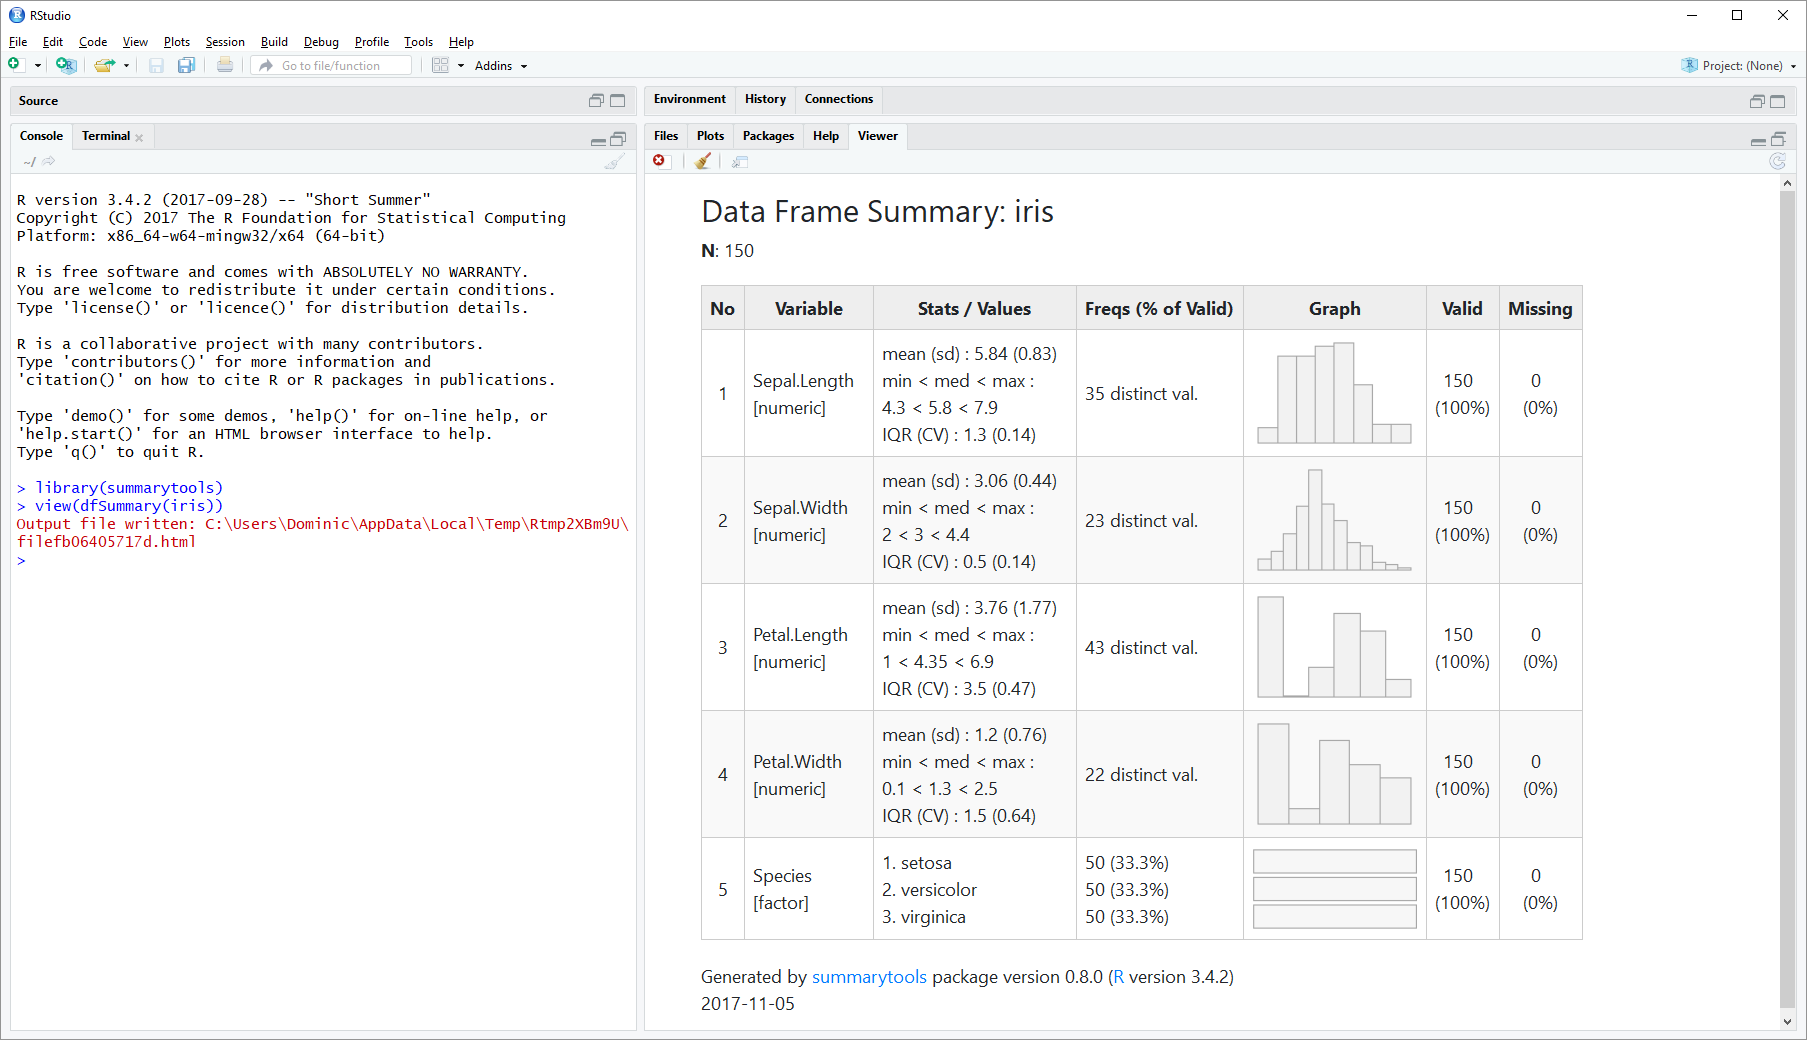
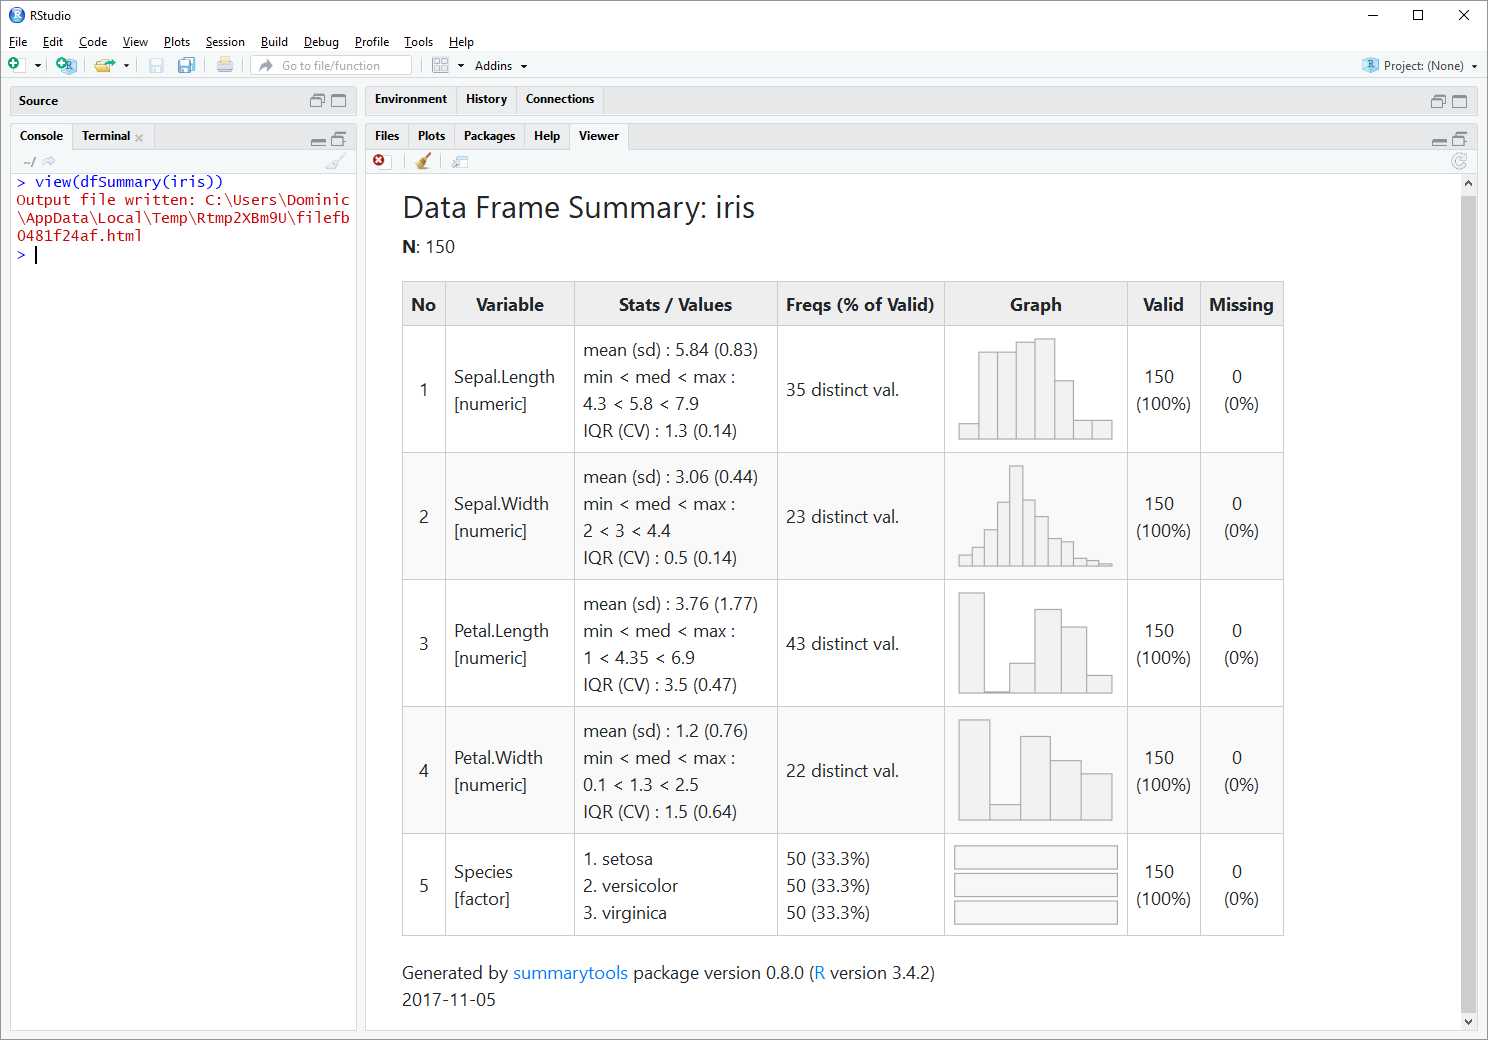
updated readme (WIP)

diff --git a/README.md b/README.md
@@ -3,14 +3,8 @@ CRAN stats: [![](http://cranlogs.r-pkg.org/badges/summarytools)](http://cran.rst
 Other stats: [![Research software impact](http://depsy.org/api/person/338759/badge.svg)](http://depsy.org/person/338759)
 
 ## Latest News
-I've been working on `summarytools` on and off over the last few months. Now I'm happy to introduce version 0.8.0, here on GitHub at first, and then push it to R-Cran. 
 
-The most notable changes are:
-  - A cross-tabulation function, `ctable()` 
-  - Improved support for `by()`, `with()` and `lapply()` functions 
-  - `dfSummary()` now optionnaly shows barplots and histograms 
-  - New layouts, most noticeable in html reports 
-  - Added flexibility on many fronts 
+For the latest news, please see [this section](#Latest-News)
 
 ## What is summarytools?
 
@@ -77,7 +71,7 @@ install_github('dcomtois/summarytools', ref='dev-current')
 
 You can also see the source code and documentation on the official R site [here](http://cran.r-project.org/web/packages/summarytools/).
 
-# Demo of the 4 main functions with plain-ascii output
+# The 4 main functions
 
 ## Frequency tables with freq()
 
@@ -85,27 +79,20 @@ The `freq()` function generates a table of frequencies with counts and proportio
 
 ```r
 library(summarytools)
-data(iris)
-# We'll insert some NA's for illustration purposes
-is.na(iris) <- matrix(sample(x = c(TRUE,FALSE), size = 150*5, 
-                             replace = T, prob = c(.1,.9)),nrow = 150)
-# ... and add a variable label for the Species column
-label(iris$Species) <- "The Species (duh)"
 freq(iris$Species)
 ```
 
 ```
 Frequencies 
 iris$Species 
-Variable Label: The Species (duh) 
 Type: Factor (unordered) 
 
                    Freq   % Valid   % Valid Cum.   % Total   % Total Cum.
 ---------------- ------ --------- -------------- --------- --------------
-          setosa     45     32.85          32.85     30.00          30.00
-      versicolor     47     34.31          67.15     31.33          61.33
-       virginica     45     32.85         100.00     30.00          91.33
-            <NA>     13                               8.67         100.00
+          setosa     50     33.33          33.33     33.33          33.33
+      versicolor     50     33.33          66.67     33.33          66.67
+       virginica     50     33.33         100.00     33.33         100.00
+            <NA>      0                               0.00         100.00
            Total    150    100.00         100.00    100.00         100.00
 ```
 
@@ -114,36 +101,30 @@ The `descr()` function generates common central tendency statistics and measures
 
 #### descr() on the iris dataframe
 
+We'll use the _rmarkdown_ style for this example, to show that the default plain-ascii output is merely one of many output formats. More about this down below.
+
 ```r
-data(iris)
-descr(iris)
-Non-numerical variable(s) ignored: Species 
+descr(iris, style = "rmarkdown")
 ```
 
-```
-Non-numerical variable(s) ignored: Species
+## Descriptive Statistics: iris 
+**N:** 150 
 
-Descriptive Statistics: iris 
-N: 150 
-
-                    Sepal.Length   Sepal.Width   Petal.Length   Petal.Width
------------------ -------------- ------------- -------------- -------------
-             Mean           5.88          3.05           3.80          1.17
-          Std.Dev           0.83          0.44           1.76          0.76
-              Min           4.40          2.00           1.00          0.10
-           Median           5.80          3.00           4.40          1.30
-              Max           7.90          4.40           6.90          2.50
-              MAD           1.04          0.37           1.78          1.04
-              IQR           1.35          0.50           3.50          1.50
-               CV           7.04          6.96           2.16          1.55
-         Skewness           0.30          0.34          -0.29         -0.06
-      SE.Skewness           0.21          0.21           0.21          0.21
-         Kurtosis          -0.64          0.26          -1.39         -1.37
-          N.Valid         135.00        134.00         136.00        130.00
-        Pct.Valid          90.00         89.33          90.67         86.67
-```
-
-
+|          &nbsp; | Sepal.Length | Sepal.Width | Petal.Length | Petal.Width |
+|----------------:|-------------:|------------:|-------------:|------------:|
+|        **Mean** |         5.84 |        3.06 |         3.76 |        1.20 |
+|     **Std.Dev** |         0.83 |        0.44 |         1.77 |        0.76 |
+|         **Min** |         4.30 |        2.00 |         1.00 |        0.10 |
+|      **Median** |         5.80 |        3.00 |         4.35 |        1.30 |
+|         **Max** |         7.90 |        4.40 |         6.90 |        2.50 |
+|         **MAD** |         1.04 |        0.44 |         1.85 |        1.04 |
+|         **IQR** |         1.30 |        0.50 |         3.50 |        1.50 |
+|          **CV** |         7.06 |        7.01 |         2.13 |        1.57 |
+|    **Skewness** |         0.31 |        0.31 |        -0.27 |       -0.10 |
+| **SE.Skewness** |         0.20 |        0.20 |         0.20 |        0.20 |
+|    **Kurtosis** |        -0.61 |        0.14 |        -1.42 |       -1.36 |
+|     **N.Valid** |       150.00 |      150.00 |       150.00 |      150.00 |
+|   **Pct.Valid** |       100.00 |      100.00 |       100.00 |      100.00 |```
 
 ##### Transposing and selecting the stats you need 
 
@@ -153,17 +134,16 @@ If your eyes/brain prefer seeing things the other way around, just use "transpos
 descr(iris, stats = c("mean", "sd", "min", "med", "max"), transpose = TRUE)
 ```
 
-```
-Descriptive Statistics: iris 
-N: 150 
+## Descriptive Statistics: iris 
+**N:** 150 
 
-                     Mean   Std.Dev    Min   Median    Max
------------------- ------ --------- ------ -------- ------
-      Sepal.Length   5.88      0.83   4.40     5.80   7.90
-       Sepal.Width   3.05      0.44   2.00     3.00   4.40
-      Petal.Length   3.80      1.76   1.00     4.40   6.90
-       Petal.Width   1.17      0.76   0.10     1.30   2.50
-```
+|           &nbsp; | Mean | Std.Dev |  Min | Median |  Max |
+|-----------------:|-----:|--------:|-----:|-------:|-----:|
+| **Sepal.Length** | 5.84 |    0.83 | 4.30 |   5.80 | 7.90 |
+|  **Sepal.Width** | 3.06 |    0.44 | 2.00 |   3.00 | 4.40 |
+| **Petal.Length** | 3.76 |    1.77 | 1.00 |   4.35 | 6.90 |
+|  **Petal.Width** | 1.20 |    0.76 | 0.10 |   1.30 | 2.50 |
+
 
 ## Cross-tabulations with ctable()
 
@@ -189,7 +169,16 @@ Data Frame: tobacco
 -------- ---------- ------------- ------------- ---------------
 ```
 
-It is possible to display _column_, _total_, or no proportions at all. We can also omit the _Totals_, so at its simplest form, we would have:
+Note that _markdown_ still has no support for multi-line headers, unfortunately. But here is what the _html_ version looks like:
+
+```r
+view(with(tobacco, ctable(smoker, diseased)))
+```
+
+![html output for ctable](img/ctable-with-row-props.png)
+
+
+It is possible to display _column_, _total_, or no proportions at all. We can also omit the _Totals_, so at its simplest form, we'd have:
 
 ```r
 with(tobacco, ctable(smoker, diseased, prop = "n", totals = FALSE))
@@ -207,11 +196,9 @@ Data Frame: tobacco
 -------- ---------- ----- -----
 ```
 
-If the presentation is not too convincing at this stage, bare with me. We'll see down below that there are interesting alternatives to this plain-ascii console output.
+## Data Frame Summaries
 
-## Dataframe summaries
-
-The `dfSummary()` function gives information for all variables contained in a data frame. It 
+The `dfSummary()` function gives information for all variables contained in a data frame. The objective in building this function was to fit as much relevant information as possible in a concise, legible table. Version 0.8.0 introduced graphs for both ascii and _html_ outputs.
 
 ```r
 dfSummary(tobacco)
@@ -278,39 +265,111 @@ No   Variable         Stats / Values               Freqs (% of Valid)     Text G
 -------------------------------------------------------------------------------------------------------------------------
 ```
 
-# Formatting options
 
-So far we've only shown the default, plain-ascii console output. 
+TEST- plain.ascii = FALSE
+### Data Frame Summary: tobacco 
+**N:** 1000 
+---------------------------------------------------------------------------------------------------------------------------------------------
+No   Variable         Stats / Values                  Freqs (% of Valid)        Text Graph                                Valid     Missing  
+---- ---------------- ------------------------------- ------------------------- ----------------------------------------- --------- ---------
+1    gender           1. F   \                        489 (50.0%)   \           ¤¤¤¤¤¤¤¤¤¤¤¤¤¤¤¤                          978       22       
+     [factor]         2. M                            489 (50.0%)               ¤¤¤¤¤¤¤¤¤¤¤¤¤¤¤¤                          (97.8%)   (2.2%)   
 
-Thanks to Gergely Daróczi's [pander](https://github.com/Rapporter/pander) package, all functions can printout [markdown](http://daringfireball.net/projects/markdown/); just use the option `style="rmarkdown"`. That is useful for instance here on GitHub, where `.md` files are converted and displayed as _html_. Thanks to John MacFarlane's [Pandoc](http://johnmacfarlane.net/pandoc/), you can further convert markdown text files into a wide range of common formats such as _.pdf_, _.docx_ and _.odt_, among others. 
+2    age              mean (sd) : 49.6 (18.29)   \    63 distinct val.          . \ \ \ \ . \ \ \ \ \ \ \ \ . \ \ . :     975       25       
+     [numeric]        min < med < max :   \                                     : . . : : : \ \ : : . : :                 (97.5%)   (2.5%)   
+                      18 < 50 < 80   \                                          : : : : : : : : : : : :                                      
+                      IQR (CV) : 32 (0.37)                                      : : : : : : : : : : : :                                      
+                                                                                : : : : : : : : : : : :                                      
+                                                                                : : : : : : : : : : : :                                      
+
+3    age.gr           1. 18-34   \                    258 (26.5%)   \           ¤¤¤¤¤¤¤¤¤¤¤¤¤                             975       25       
+     [factor]         2. 35-50   \                    241 (24.7%)   \           ¤¤¤¤¤¤¤¤¤¤¤¤                              (97.5%)   (2.5%)   
+                      3. 51-70   \                    317 (32.5%)   \           ¤¤¤¤¤¤¤¤¤¤¤¤¤¤¤¤                                             
+                      4. 71 +                         159 (16.3%)               ¤¤¤¤¤¤¤¤                                                     
+
+4    BMI              mean (sd) : 25.73 (4.49)   \    974 distinct val.         \ \ \ \ \ \ \ \ \ \ \ \ :                 974       26       
+     [numeric]        min < med < max :   \                                     \ \ \ \ \ \ \ \ \ \ : : .                 (97.4%)   (2.6%)   
+                      8.83 < 25.62 < 39.44   \                                  \ \ \ \ \ \ \ \ \ \ : : :                                    
+                      IQR (CV) : 5.72 (0.17)                                    \ \ \ \ \ \ \ \ : : : : :                                    
+                                                                                \ \ \ \ \ \ \ \ : : : : : .                                  
+                                                                                \ \ \ \ . : : : : : : : .                                    
+
+5    smoker           1. Yes   \                      298 (29.8%)   \           ¤¤¤¤¤¤                                    1000      0        
+     [factor]         2. No                           702 (70.2%)               ¤¤¤¤¤¤¤¤¤¤¤¤¤¤¤¤                          (100%)    (0%)     
+
+6    cigs.per.day     mean (sd) : 6.78 (11.88)   \    37 distinct val.          :                                         965       35       
+     [numeric]        min < med < max :   \                                     :                                         (96.5%)   (3.5%)   
+                      0 < 0 < 40   \                                            :                                                            
+                      IQR (CV) : 11 (1.75)                                      :                                                            
+                                                                                :                                                            
+                                                                                : \ \ \ \ . \ \ \ \ \ \ \ \ . \ \ \ \ .                      
+
+7    diseased         1. Yes   \                      224 (22.4%)   \           ¤¤¤¤                                      1000      0        
+     [factor]         2. No                           776 (77.6%)               ¤¤¤¤¤¤¤¤¤¤¤¤¤¤¤¤                          (100%)    (0%)     
+
+8    disease          1. Hypertension   \             36 (16.2%)   \            ¤¤¤¤¤¤¤¤¤¤¤¤¤¤¤¤                          222       778      
+     [character]      2. Cancer   \                   34 (15.3%)   \            ¤¤¤¤¤¤¤¤¤¤¤¤¤¤¤                           (22.2%)   (77.8%)  
+                      3. Cholesterol   \              21 ( 9.5%)   \            ¤¤¤¤¤¤¤¤¤                                                    
+                      4. Heart   \                    20 ( 9.0%)   \            ¤¤¤¤¤¤¤¤                                                     
+                      5. Pulmonary   \                20 ( 9.0%)   \            ¤¤¤¤¤¤¤¤                                                     
+                      6. Musculoskeletal   \          19 ( 8.6%)   \            ¤¤¤¤¤¤¤¤                                                     
+                      7. Diabetes   \                 14 ( 6.3%)   \            ¤¤¤¤¤¤                                                       
+                      8. Hearing   \                  14 ( 6.3%)   \            ¤¤¤¤¤¤                                                       
+                      9. Digestive   \                12 ( 5.4%)   \            ¤¤¤¤¤                                                        
+                      10. Hypotension   \             11 ( 5.0%)   \            ¤¤¤¤                                                         
+                      [ 3 others ]                    21 ( 9.4%)                ¤¤¤¤¤¤¤¤¤                                                    
+
+9    samp.wgts        mean (sd) : 1 (0.08)   \        0.86*: 267 (26.7%)   \    ¤¤¤¤¤¤¤¤¤¤¤¤¤                             1000      0        
+     [numeric]        min < med < max :   \           1.04*: 249 (24.9%)   \    ¤¤¤¤¤¤¤¤¤¤¤¤                              (100%)    (0%)     
+                      0.86 < 1.04 < 1.06   \          1.05*: 324 (32.4%)   \    ¤¤¤¤¤¤¤¤¤¤¤¤¤¤¤¤                                             
+                      IQR (CV) : 0.19 (0.08)          1.06*: 160 (16.0%)   \    ¤¤¤¤¤¤¤                                                      
+                                                      * rounded                                                                              
+---------------------------------------------------------------------------------------------------------------------------------------------
+
+
+# Output & formatting options
+
+So far we've only shown the default, plain-ascii console output. We'll now see two alternatives to this default behavior: _Rmarkdown_ and _html_.
+
+## Rmarkdown
+
+_summarytools_ uses Gergely Daróczi's [pander](https://github.com/Rapporter/pander) package (an _R_ implementation of John MacFarlane's [Pandoc](http://johnmacfarlane.net/pandoc/)), to generate the ascii content. What this means is that the 4 main functions can printout [markdown](http://daringfireball.net/projects/markdown/) (_Rmarkdown_ to be precise) simply by setting the option `style="rmarkdown"`. 
 
 Here is an **example** of a markdown table, as processed by GitHub, using freq():
 
-
 ```r
-> freq(iris$Species, style="rmarkdown", plain.ascii=FALSE, missing="---")
+freq(iris$Species, style="rmarkdown")
 ```
-Dataframe name: iris  
- Variable name: Species  
-Variable label: The Species (duh)  
-          Date: 2014-12-05  
 
-Frequencies
+## Frequencies 
+### iris$Species 
+**Type:** Factor (unordered) 
 
-|           &nbsp; |   N |   %Valid |   %Cum.Valid |   %Total |   %Cum.Total |
-|-----------------:|----:|---------:|-------------:|---------:|-------------:|
-|       **setosa** |  46 |    33.58 |        33.58 |    30.67 |        30.67 |
-|   **versicolor** |  45 |    32.85 |        66.42 |       30 |        60.67 |
-|    **virginica** |  46 |    33.58 |          100 |    30.67 |        91.33 |
-|       **\<NA\>** |  13 |      --- |          --- |     8.67 |          100 |
-|        **Total** | 150 |      100 |          100 |      100 |          100 |
+|         &nbsp; | Freq | % Valid | % Valid Cum. | % Total | % Total Cum. |
+|---------------:|-----:|--------:|-------------:|--------:|-------------:|
+|     **setosa** |   50 |   33.33 |        33.33 |   33.33 |        33.33 |
+| **versicolor** |   50 |   33.33 |        66.67 |   33.33 |        66.67 |
+|  **virginica** |   50 |   33.33 |       100.00 |   33.33 |       100.00 |
+|     **\<NA\>** |    0 |         |              |    0.00 |       100.00 |
+|      **Total** |  150 |  100.00 |       100.00 |  100.00 |       100.00 |
 
-###### Two things to note here:
 
-  1. We specified `plain.ascii=FALSE`. This allows additional markup in the text (here, the bold-typed row names, added automatically by [pander](https://github.com/Rapporter/pander)).
-  2. We used the option `missing="---"`, to show that if we don't like seeing `NA`'s in our tables, it's quite easy to get rid of them or replace them with any character (or combination of characters).
+In the console, this would be shown as:
+```
+## Frequencies 
+### iris$Species 
+**Type:** Factor (unordered) 
 
-To **learn more about _markdown_ and _rmarkdown_** formats, see [John MacFarlane's page](http://johnmacfarlane.net/pandoc/) and this [RStudio's R Markdown Quicktour](http://rmarkdown.rstudio.com/).
+|         &nbsp; | Freq | % Valid | % Valid Cum. | % Total | % Total Cum. |
+|---------------:|-----:|--------:|-------------:|--------:|-------------:|
+|     **setosa** |   50 |   33.33 |        33.33 |   33.33 |        33.33 |
+| **versicolor** |   50 |   33.33 |        66.67 |   33.33 |        66.67 |
+|  **virginica** |   50 |   33.33 |       100.00 |   33.33 |       100.00 |
+|     **\<NA\>** |    0 |         |              |    0.00 |       100.00 |
+|      **Total** |  150 |  100.00 |       100.00 |  100.00 |       100.00 |
+```
+
+To learn more about _markdown_ and _rmarkdown_ formats, see [John MacFarlane's page](http://johnmacfarlane.net/pandoc/) and this [RStudio's R Markdown Quicktour](http://rmarkdown.rstudio.com/). With _Pandoc_, Rmarkdown documents can be converted to various formats, such as _pdf_ or 
 
 ## Create and view html reports
 
@@ -460,6 +519,18 @@ install.packages("devtools")
 library(devtools)
 install_github('dcomtois/summarytools', ref='dev')
 ```
+
+# Latest News
+I've been working on `summarytools` on and off over the last few months. Now I'm happy to introduce version 0.8.0, here on GitHub at first, and then push it to R-Cran. 
+
+The most notable changes are:
+  - A cross-tabulation function, `ctable()` 
+  - Improved support for `by()`, `with()` and `lapply()` functions 
+  - `dfSummary()` now optionnaly shows barplots and histograms 
+  - New layouts, most noticeable in html reports 
+  - Added flexibility on many fronts 
+
+
 
 ## Introducing cross-tabulation function ctable()
 
